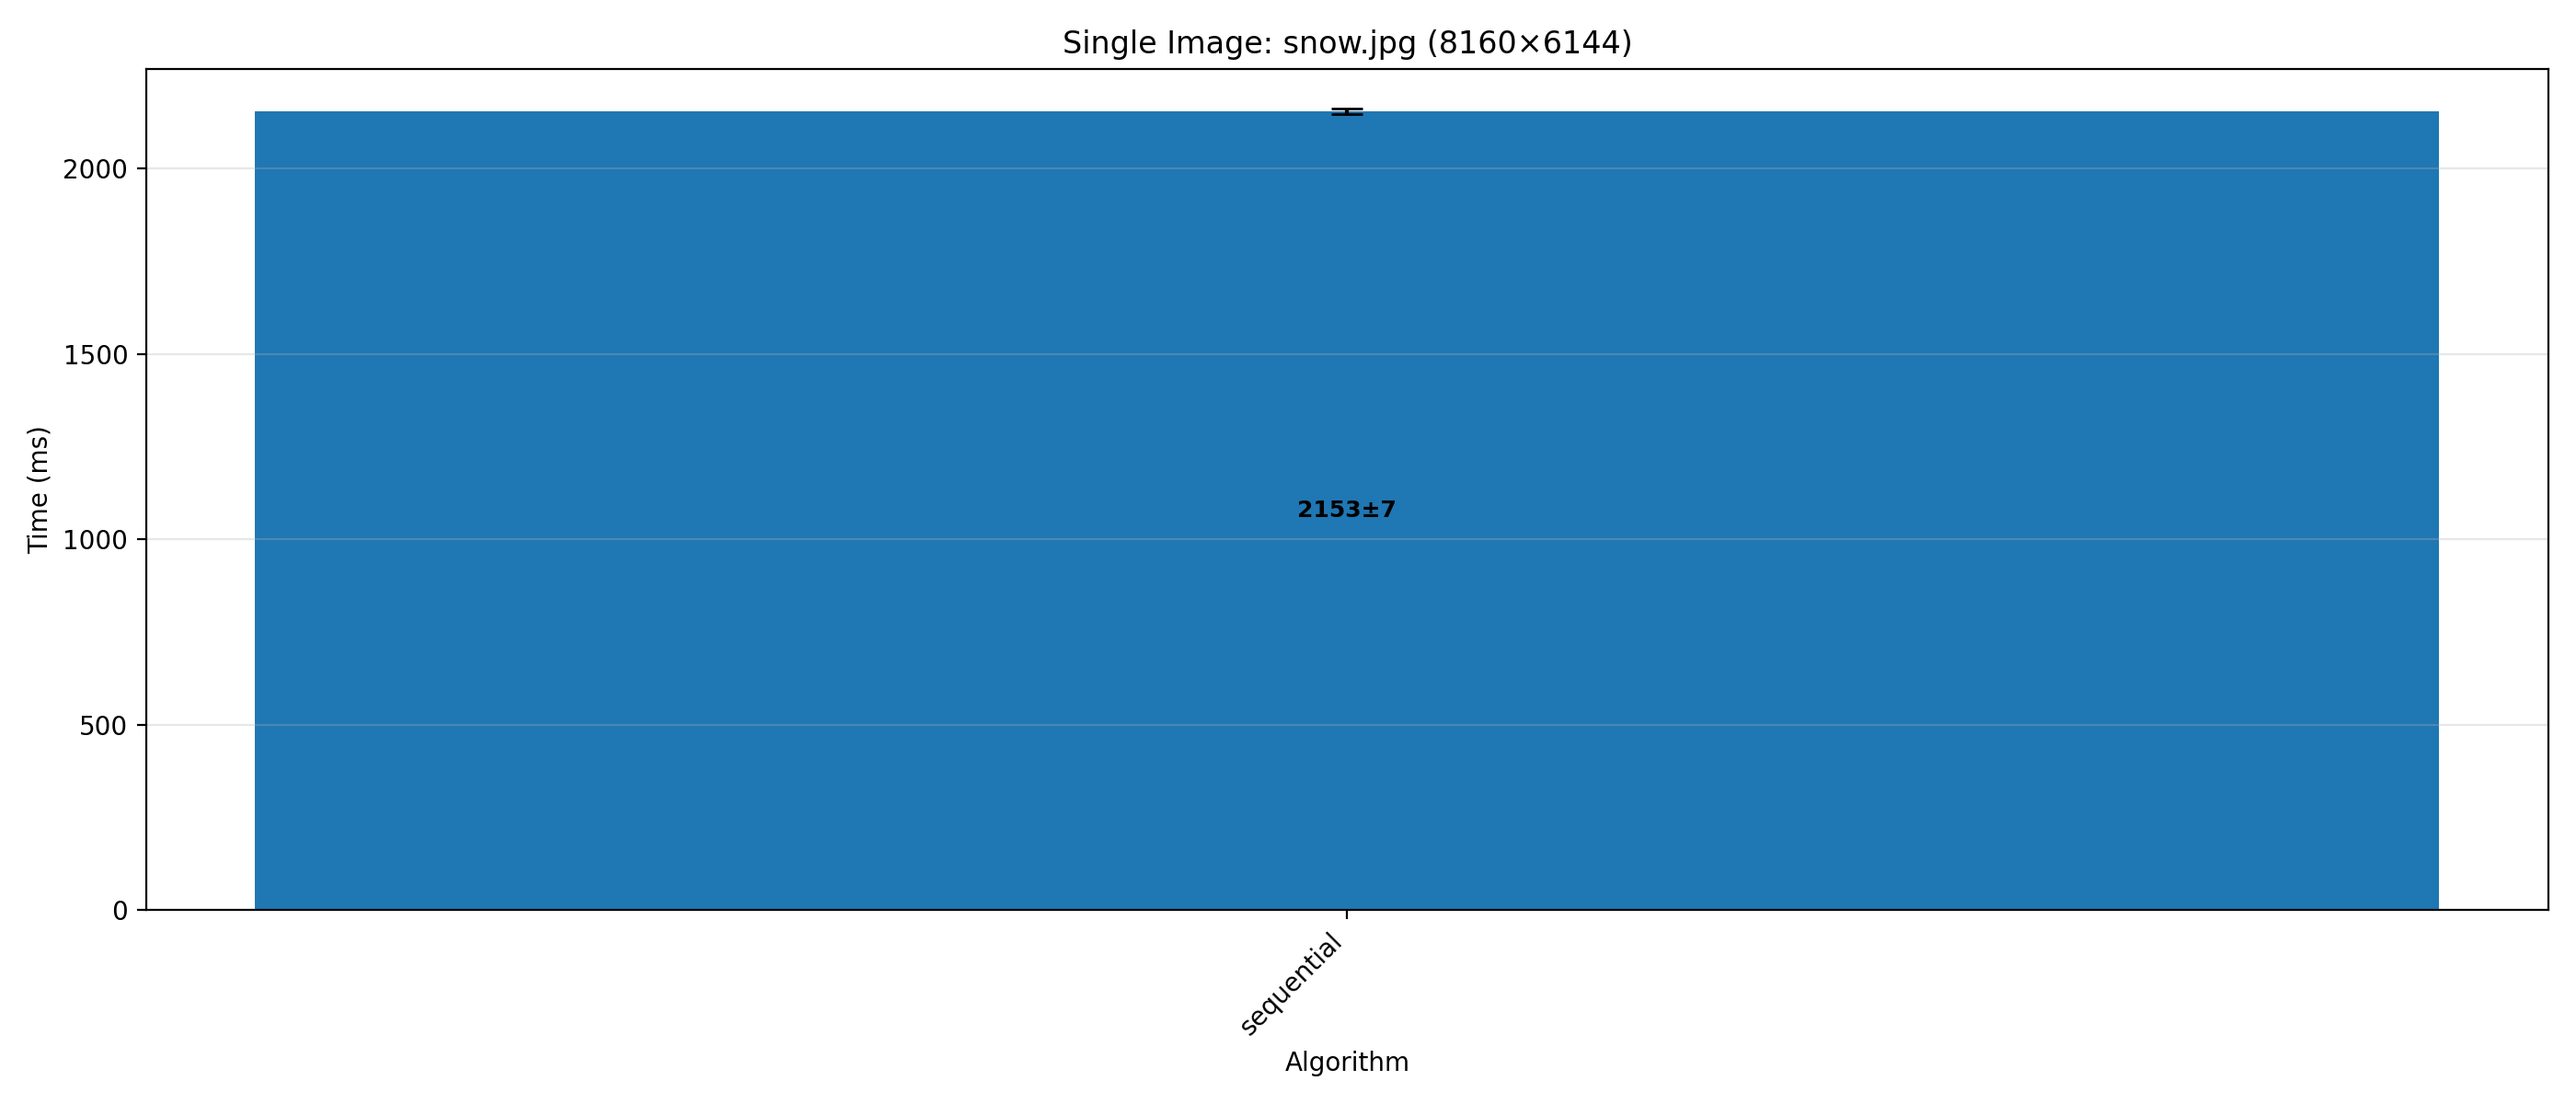
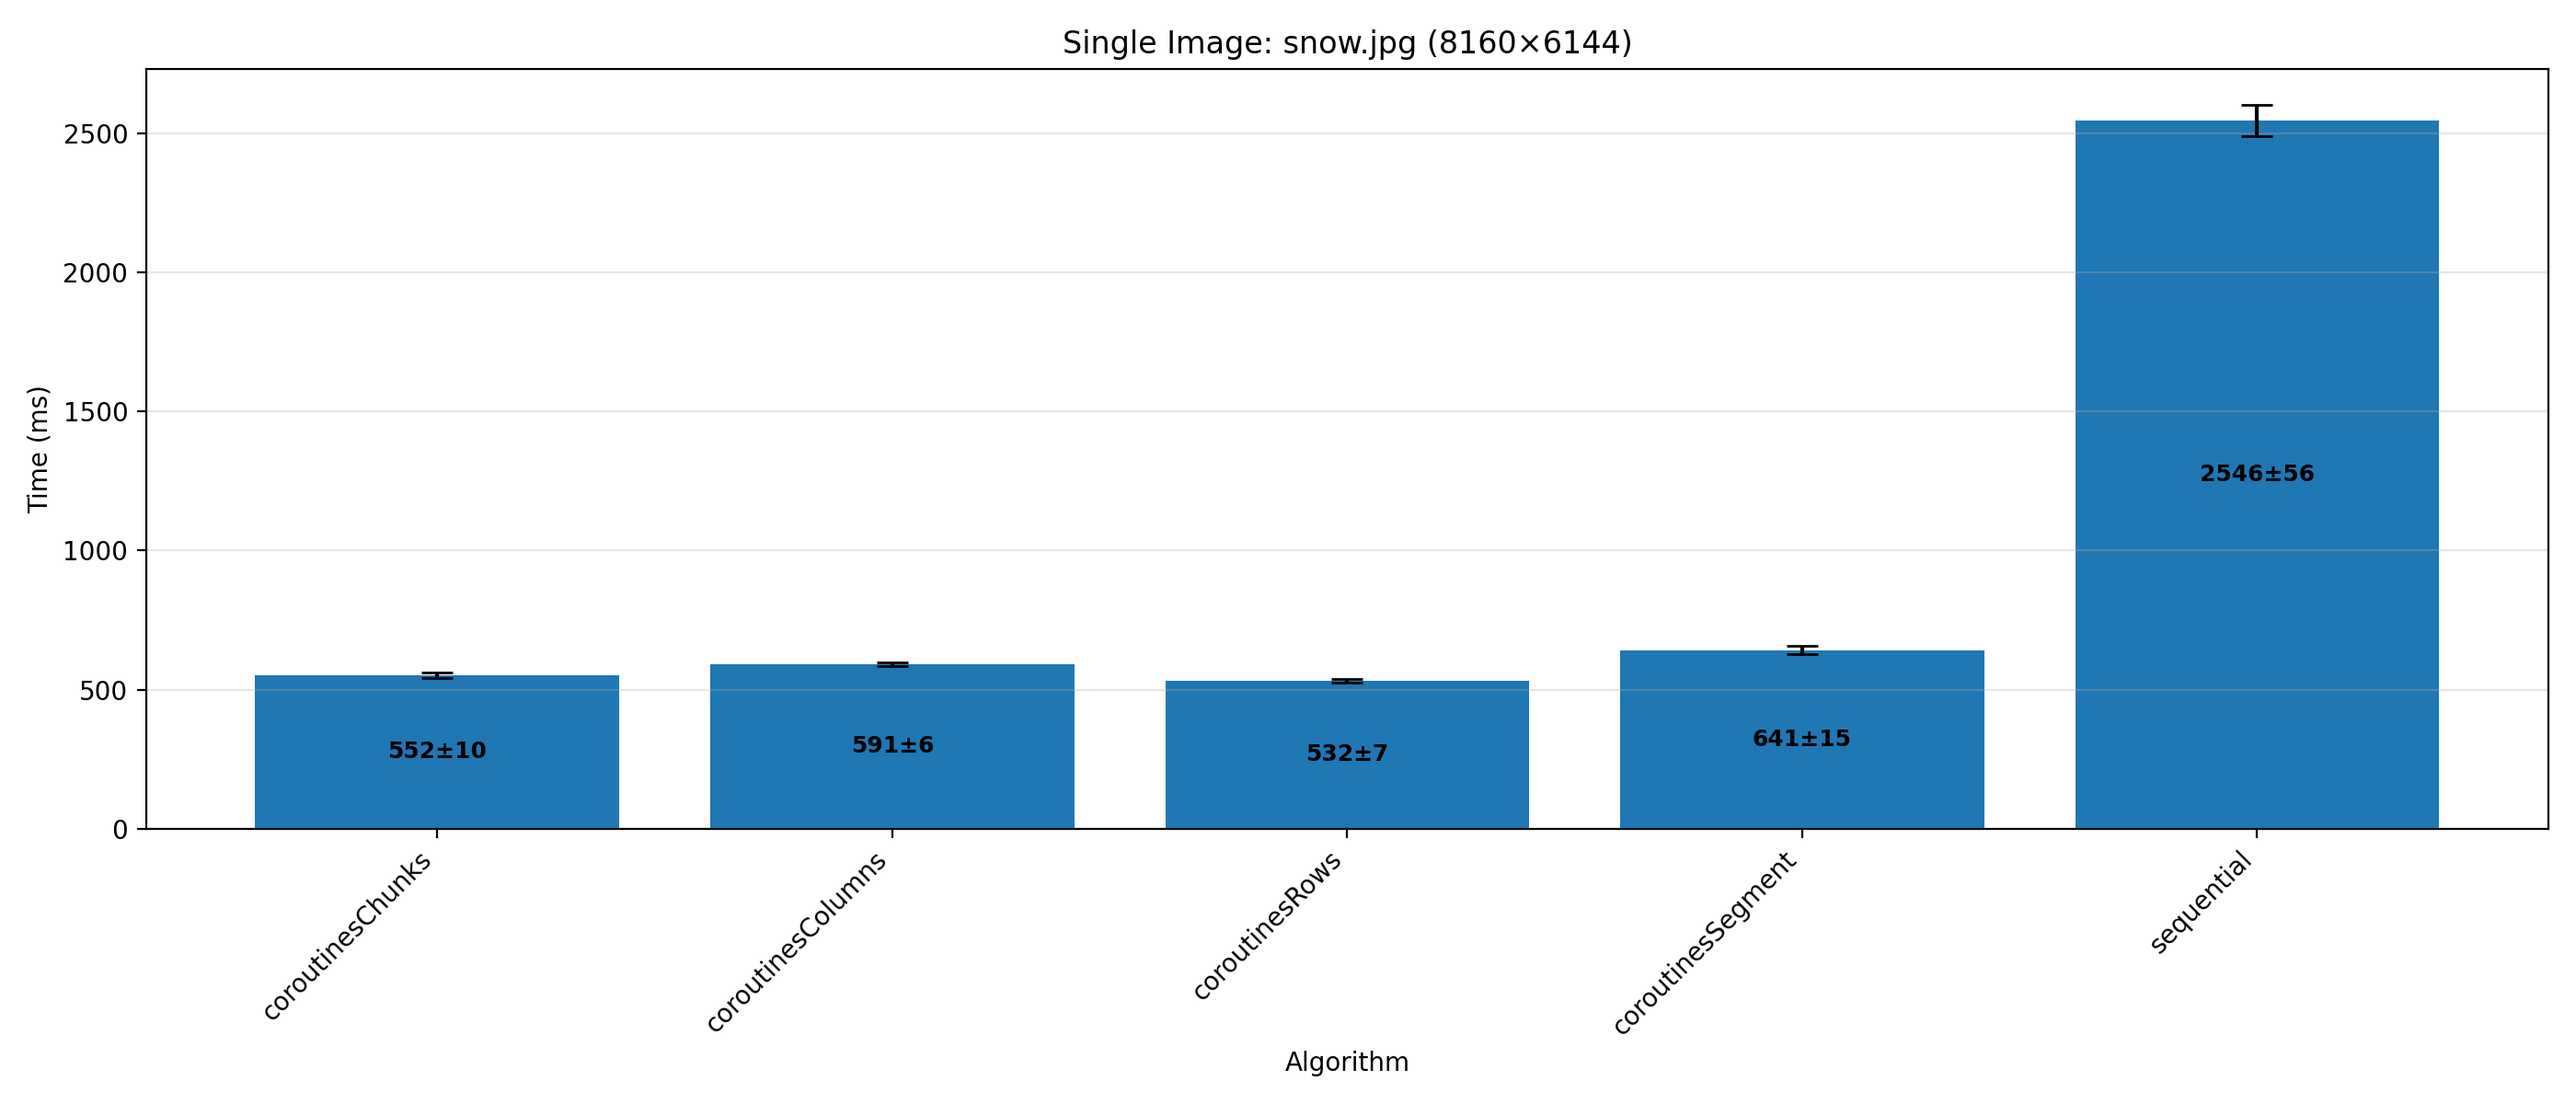
feat: update README.md

diff --git a/README.md b/README.md
@@ -1,6 +1,6 @@
 # Convolution Filters
 
-Приложение для применения фильтров свёртки ([convolution](https://lodev.org/cgtutor/filtering.html)) к изображениям с различными стратегиями параллельной обработки 
+Приложение для применения фильтров свёртки ([convolution](https://lodev.org/cgtutor/filtering.html)) к изображениям с различными стратегиями параллельной обработки
 
 ## Quick Start
 
@@ -18,6 +18,44 @@
 ```
 - `filename` - путь к изображению (требуется)
 - `filter` - тип фильтра (требуется)
+
+#### coroutines_rows
+Параллельная обработка по строкам
+```bash
+./gradlew run --args "coroutines_rows <filename> <filter> [tasks]"
+```
+- `filename` - путь к изображению (требуется)
+- `filter` - тип фильтра (требуется)
+- `tasks` - количество потоков (опционально - по умолчанию по числу строк)
+
+#### coroutines_columns
+Параллельная обработка по столбцам
+```bash
+./gradlew run --args "coroutines_columns <filename> <filter> [tasks]"
+```
+- `filename` - путь к изображению (требуется)
+- `filter` - тип фильтра (требуется)
+- `tasks` - количество потоков (опционально - по умолчанию по числу столбцов)
+
+#### coroutines_segment
+Параллельная обработка сегментами
+```bash
+./gradlew run --args "coroutines_segment <filename> <filter> [tasks]"
+```
+- `filename` - путь к изображению (требуется)
+- `filter` - тип фильтра (требуется)
+- `tasks` - количество сегментов (опционально - по умолчанию 8 сегментов)
+
+#### coroutines_chunks
+Параллельная обработка 2D блоками
+```bash
+./gradlew run --args "coroutines_chunks <filename> <filter> [tasksX] [tasksY]"
+```
+- `filename` - путь к изображению (требуется)
+- `filter` - тип фильтра (требуется)
+- `tasksX` - число разбиения по горизонтали (опционально - по умолчанию 8)
+- `tasksY` - количество блоков по вертикали (опционально - по умолчанию 8)
+
 ## Benchmarks
 
 ### Single Image: snow.jpg (8160×6144)
@@ -26,4 +64,29 @@
 
 | Algorithm | Time (ms) | Error (ms) |
 |-----------|-----------|-----------|
+| coroutinesByPixel | 84608 | 3054 |
+| coroutinesChunks | 552 | 10 |
+| coroutinesColumns | 591 | 6 |
+| coroutinesRows | 532 | 7 |
+| coroutinesSegment | 641 | 15 |
 | sequential | 2546 | 56 |
+
+
+## Conclusions
+
+### Для единичного изображения:
+- Наивная реализация распараллеливания по пикселям значительно медленнее остальных,
+  что ожидаемо, так как накладные расходы на создание корутин начинают сильно
+  превышать выигрыш от распараллеливания
+- Прочие стратегии распараллеливания (по строкам, столбцам, сегментам и блокам)
+  показывают примерно схожую производительность, превосходя последовательную реализацию
+  примерно в 4-5 раз, что оказывается вполне ожидаемым при использовании многоядерного
+  процессора
+- Стратегия распараллеливания по строкам оказывается чуть быстрее остальных,
+  что может быть связано с лучшей локальностью данных (попаданий к кеш)
+- Стратегия распараллеливания по блокам (2D-блокам) показывает несколько лучшую производительность,
+  чем распараллеливание по сегментам (послдовательность пикселей). Это может быть связано с комбинированным
+  эффектом от локальность данных (попаданий к кеш) и эффективностью распределения нагрузки в корутинах
+  (по умолчанию изображение разбивается на 64 блока или 8 сегментов; соответственно более
+  мелкие задачи более эффективно выполняются на корутинах (особенно учитывая их небольщие
+  расходы на создание и переключение контекста))
